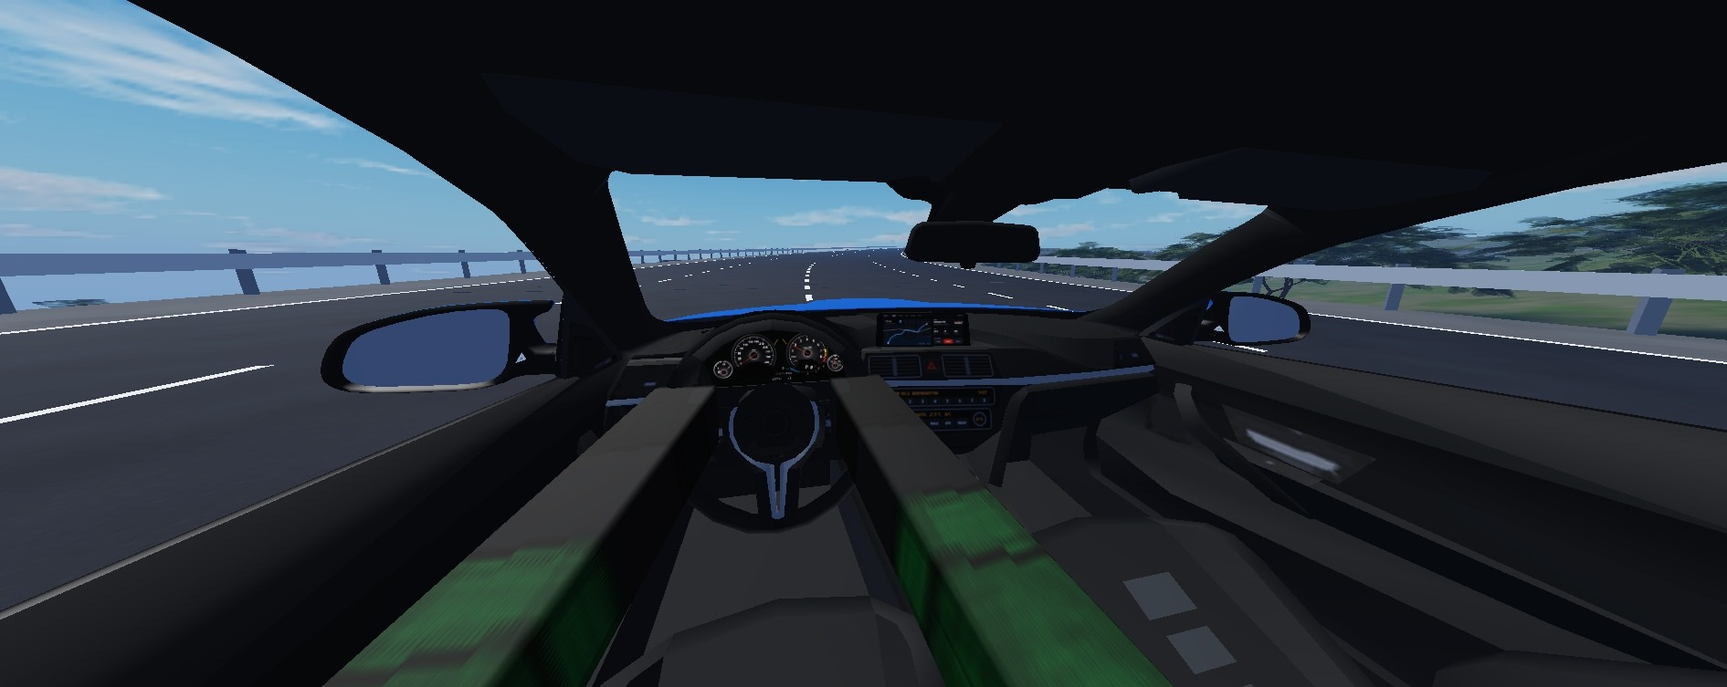
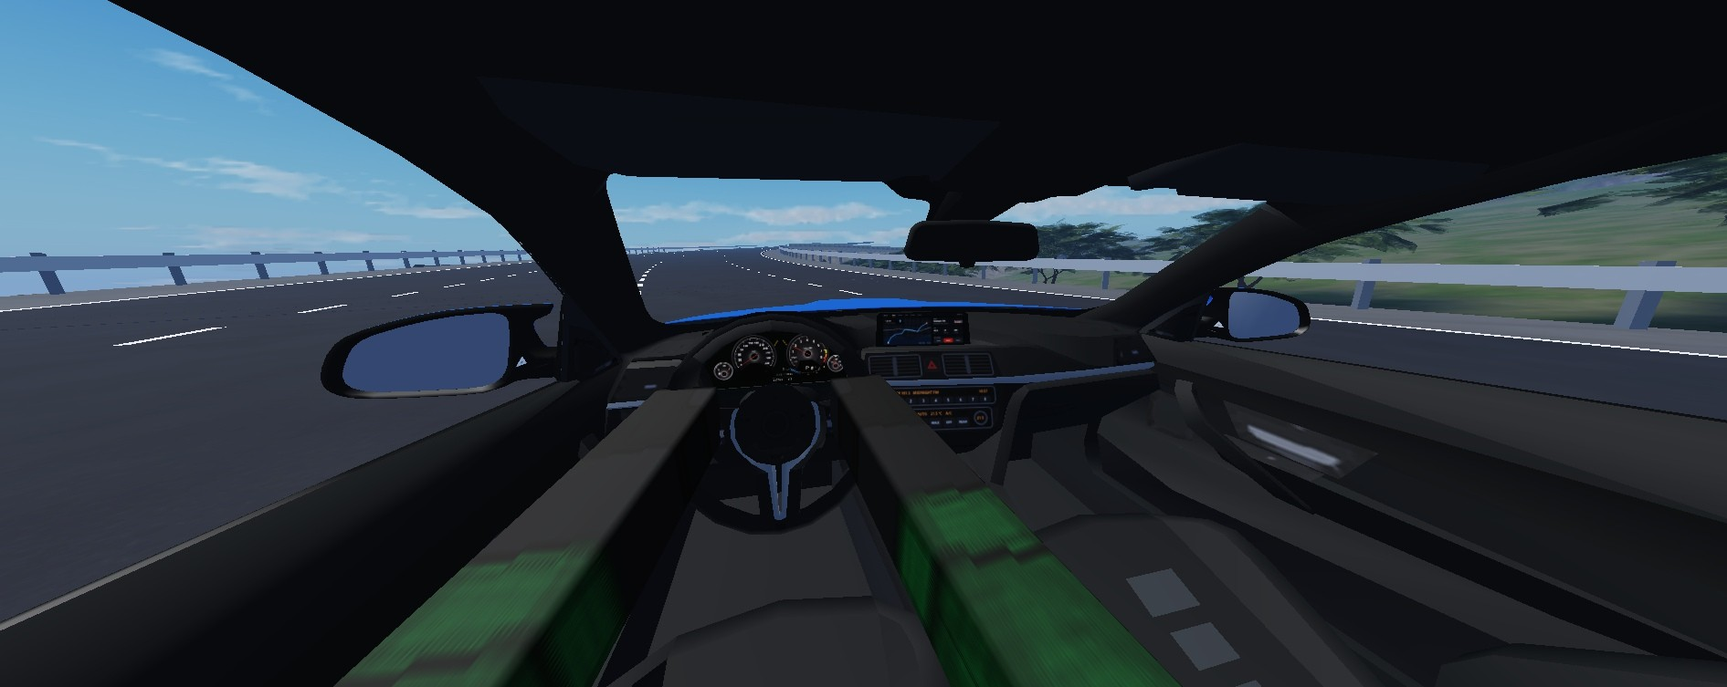
City Legends: car 5 of 7 done, the Bavarica Werkz F82 checked day and night
- Night half checked in Play: every lamp by eye and by the shells' numbers,
  cluster against the HUD while driving, wheels, Customs paint, the F80's
  cabin, the Workshop at phone size. Cabin glow picture put on.
- The F82 keeps the model's own steering wheel (owner's rule of 13 Nov).
- Notes, pictures (lamps at night, cluster while driving, phone size).

diff --git a/City Legends/City Legends.md b/City Legends/City Legends.md
@@ -13,13 +13,13 @@
 >
 > **Car 4 of 7 done: the Bavarica Werkz F90 (`bnw_m5_f90`; 2026-11-10 to 12, in Studio, not published).** It has its own model now, the 2022 one (it shared the 540i's body): logos out, black cabin with matt carbon, lit centre screen, the G20 Sport's live cluster as the owner said, working lamps, kit v2 wheels (Saetta Y5 gunmetal, gold calipers). Same id, name, price, class. Real numbers put in (627 hp, 1,825 kg, 0-60 2.9 s). **Left out:** working doors (4 doors, with the 4-door job). Section "Bavarica Werkz F90, the 2022 model". (F82: next block.)
 >
-> **Car 5 of 7 is in, checked by day only: the Bavarica Werkz F82 (`bnw_m4_f82`, car 3 on the prompt's list; 2026-11-12 to 13, in Studio, not published).** It now uses the 2018 model: logos out, its own dark cabin with a lit centre screen, the cluster redrawn from your photo made live (for you to judge: [[Bavarica Werkz F82 cluster - in the game next to the photo.jpg]]), working lamps, kit v2 wheels (Saetta Y5 gloss black, blue calipers). Same id, name, price, class. Real numbers put in (1,537 kg, 0-60 3.9 s, 7,600 rpm). The old model is kept (`ServerStorage.OldCarModels.bnw_m4_f82_old_2026-11-12`). **Said plainly:** this model's cabin is a low-detail one (one small flat picture): it is dark and clean, not rich. **Not checked yet:** night, the lamps, the cluster against the HUD while driving, a phone-size picture. On 13 Nov Studio's window was minimized during the test and a minimized Studio draws nothing (blank screenshots). **It needs one more short test (about 20 minutes) with Studio's window left open; it can sit behind other windows.** **Left out:** working doors (with the doors job). Section "Bavarica Werkz F82, the 2018 model". **In: 5 of 7** (E60, Sovereign Highlands, Horizon R35, F90, F82). **Left: 2** (E92, GT3 RS).
+> **Car 5 of 7 done: the Bavarica Werkz F82 (`bnw_m4_f82`, car 3 on the prompt's list; 2026-11-12 to 13, in Studio, not published).** It now uses the 2018 model: logos out, its own dark cabin with a lit centre screen and softly glowing labels at night, the cluster redrawn from your photo made live (for you to judge: [[Bavarica Werkz F82 cluster - in the game next to the photo.jpg]]), working lamps, kit v2 wheels (Saetta Y5 gloss black, blue calipers), the model's own steering wheel (your rule of 13 Nov). Same id, name, price, class. Real numbers put in (1,537 kg, 0-60 3.9 s, 7,600 rpm). **Said plainly:** this model's cabin is a low-detail one (one small flat picture): it is dark and clean, not rich. **Left out:** working doors (with the doors job). Section "Bavarica Werkz F82, the 2018 model". **Done: 5 of 7** (E60, Sovereign Highlands, Horizon R35, F90, F82). **Left: 2** (E92, GT3 RS).
 >
 > **OWNER, CHECK (2026-11-12): Studio's save script was on the test save from 10 Nov 15:45 to 12 Nov 21:35.** The F90 run was cut by the usage limit in the middle of a Play test, so the switch back never ran. It is back on the real save (`CityLegends_v1`; no `CityLegends_test` left in any script). **If you published in that time, publish again**, or the live game reads the test saves (players' real saves are not touched).
 
 > **OWNER, CHECK (2026-11-13): Studio's save script was on the test save from 12 Nov 23:22 to 13 Nov 08:14.** The F82 run (car 5 of 7) was cut by the usage limit on 12 Nov at 23:26, in the middle of a Play test, so the switch back never ran. **Fixed 13 Nov 08:14:** it is back on the real save (`CityLegends_v1`; no `CityLegends_test` left in any script). **If you published in that time, publish again**, or the live game reads the test saves (players' real saves are not touched).
 > - **GT3 RS:** the Blender part was cut too; started again on 13 Nov. **E92:** its Blender touch-up is not started.
-> - **State when the usage limit hit again (13 Nov, about 10:00):** GT3 RS Blender part finished (pack `Games/CityLegends/imports/new_cars/porsha_gt3.fbx`; write-up `%TEMP%\claude\7a3e934f062f0b7d\7b4bef64-38b0-4806-a059-d79fa7b1e6ca\scratchpad\prep_gt3rs\PREP.md`: cluster box, `CLUSTER_RECT`, `window_gt3rs.png`, data lines, wheels Centro6 gunmetal, yellow calipers). E92 Blender touch-up only just started, then stopped (scratch `...\scratchpad\prep_e92b\`, `PROGRESS.md` if it got that far; brief `...\scratchpad\brief_prep_e92b.md`). F82: its cabin's normal picture in Studio was an old one (old start button, controller and wheel key pads pressed in under the redrawn ones); swapped in Edit for the right one (`tools/logo_paint/bnw_m4_f82_cabin_n.png`, asset 93240865806279) on `Body_Cabin` and `SteeringWheel_t21`, not looked at in Play. The F82's night half still needs Studio's window left open (not minimized). Save script checked at 09:57: `CityLegends_v1`.
+> - **State when the usage limit hit again (13 Nov, about 10:00):** GT3 RS Blender part finished (pack `Games/CityLegends/imports/new_cars/porsha_gt3.fbx`; write-up `%TEMP%\claude\7a3e934f062f0b7d\7b4bef64-38b0-4806-a059-d79fa7b1e6ca\scratchpad\prep_gt3rs\PREP.md`: cluster box, `CLUSTER_RECT`, `window_gt3rs.png`, data lines, wheels Centro6 gunmetal, yellow calipers). E92 Blender touch-up only just started, then stopped (scratch `...\scratchpad\prep_e92b\`, `PROGRESS.md` if it got that far; brief `...\scratchpad\brief_prep_e92b.md`). F82: its cabin's normal picture in Studio was an old one (old start button, controller and wheel key pads pressed in under the redrawn ones); swapped in Edit for the right one (`tools/logo_paint/bnw_m4_f82_cabin_n.png`, asset 93240865806279) on `Body_Cabin` and `SteeringWheel_t21`. **Since then (13 Nov, about 11:10): the F82 is done.** The new picture was looked at in Play (reads clean) and the night half was checked with Studio's window left open (block "Car 5 of 7 done"). Save script checked at 09:57: `CityLegends_v1`.
 > - **Steering wheels (owner, 2026-11-13, permanent rule):** "whenever i import a new model for the old models, Never ever use the old model steering wheels, Only use the new import model steering wheels". Every new import keeps its own model's steering wheel (the rule is in `Games/CityLegends/CLAUDE.md`). The F82, GT3 RS and E92 follow it.
 > - **Audi (owner, 2026-11-13): "dont do the audi file I removed it".** The 4 models put in `Games/CityLegends/imports/new_cars/Audi/` on 12 Nov (R8 LMS Ultra, RS6 Avant, RS7 Sportback, RS6 Avant GT) are not to be imported, even if the folder still shows up from GitHub.
 
@@ -53,39 +53,44 @@ A Roblox night-city driving game. The code is in this vault, folder `Games/CityL
 ## Bavarica Werkz F82, the 2018 model (2026-11-12 to 13, `Prompts/Finish the 7 waiting imports (E60, E92, F82, F90, GT3 RS, Bentayga, GT-R).md`, car 3)
 **Licence:** CC-BY-NC-SA 4.0 (non-commercial), Ddiaz Design (Sketchfab), credited in `Config.Credits`. Its part names are two racing games' (`b:..._Max` / `_Low` for the body, cabin and lamps; `BMW_M4Coupe_2014_Wheel2A...` for the wheels): most likely ripped. The owner decides.
 
-**Not finished: checked by day only.** What is still open is under "Not checked yet".
-
 - **What changed:** `bnw_m4_f82` uses the 2018 model now (the standard car: 19-inch wheels, carbon roof, LED headlamps with two six-sided rings). Same id, name, price ($42,500, used), class (Coupe, A; the class number went 604 -> 612), no level needed. Real numbers put in: 1,537 kg (was 1,550), 0-60 3.9 s (was 4.1, which is its 0-100 km/h), rev limit 7,600 (was 7,300). 425 hp, 550 Nm, 174 mph, rear-wheel drive and the 7-speed stay. Paint: the game's blue, so owners keep the car they know (the model's own colour is yellow).
 - **No logos:** done in Blender (2026-11-12).
   - Dropped: the roundels on the bonnet and boot with their plinths, the letters on the boot, in the kidney and on both wing gills, the maker's words inside the lamps, the calipers (the kit brings its own), the wheel caps' roundels.
   - Painted out of the pictures: the tyre lettering, the engine cover's words, and in the cabin the hub roundel, the stripe marks on the wheel and the seat plaques, the dials' marks.
   - Gone with the badge sheet: the parking-sensor dots, the camera dots and the lock disc (they were stickers).
   - None seen in the Play pictures.
-- **Cluster (owner, 2026-11-10: rebuilt 1:1 from the owner's photo):** the redraw is live as `LiveF82`, on the model's own cluster face (355 x 134 mm; no window needed: the hood's walls hide the corners). **The drawing was not changed.** Only its box was set to the model's measured face (`box = (-38, 7, 659, 271)`, `bg_scale 1.93`). Live: the speed needle (km/h, as printed), the digital speed in the player's unit, revs, fuel, gear, date, mileage, trip. **Checked parked:** 0 on the cluster and on the HUD; the cluster shows P where the HUD shows N (it is drawn that way: P, R, and D with the gear number). **Not checked: while driving.** For the owner to judge: [[Bavarica Werkz F82 cluster - in the game next to the photo.jpg]]. **To put the old drawn cluster back:** `CLUSTER_STYLE` `bnw_m4_f82 = "BMWF80"` in `CarSkin.lua` (it sits on the same face).
+- **Cluster (owner, 2026-11-10: rebuilt 1:1 from the owner's photo):** the redraw is live as `LiveF82`, on the model's own cluster face (355 x 134 mm; no window needed: the hood's walls hide the corners). **The drawing was not changed** and no placement fix was needed. Only its box was set to the model's measured face (`box = (-38, 7, 659, 271)`, `bg_scale 1.93`). Live: the speed needle (km/h, as printed), the digital speed in the player's unit, revs, fuel, gear, date, mileage, trip.
+  - **Checked parked:** 0 on the cluster and on the HUD; the cluster shows P where the HUD shows N (it is drawn that way: P, R, and D with the gear number).
+  - **Checked while driving:** 60 km/h on the needle, on the cluster's number and on the HUD; gear 2 on both ("2 D" on the cluster); the rev needle at 4,300 with the HUD's bar a bit over half.
+  - For the owner to judge: [[Bavarica Werkz F82 cluster - in the game next to the photo.jpg]]. **To put the old drawn cluster back:** `CLUSTER_STYLE` `bnw_m4_f82 = "BMWF80"` in `CarSkin.lua` (it sits on the same face).
 - **Interior, said plainly: this model's cabin is a low-detail one.** Dash, seats, doors and steering wheel are one part with one small flat picture. So there is no leather grain, no stitching, no Alcantara, and the seats are simple shapes. What was done with it:
   - The picture was rebuilt 4 times larger, with no white seams, and with our own radio and climate panel, vents, steering-wheel keys, start button and console controller (our own labels; Blender, 2026-11-12).
   - The centre screen is a sharp lit page of ours (map, radio, trip, drive mode; a still picture).
-  - The cabin's carbon strip is matt. The car has its own cabin now (it borrowed the E92's before; the F80 still does).
-  - Seen from the driver's seat and the passenger side by day: dark and clean, nothing white.
-- **Steering wheel:** the model's own (angular rim, plain hub, the new key pads); the hands hold it at 9 and 3. The game's generated wheel (`STEER_MODEL` `"BMWM"`, what this car had before) was **not compared by eye**: the Play for it gave no picture. To try it: put `bnw_m4_f82 = "BMWM"` back in `CarSkin.STEER_MODEL`.
-- **Lamps (`CarLamps.CARS`):** shells cut from the model's own lamps: both rings and their light bars, the eyebrow strip and the mirror repeaters (indicators), the red lenses, the reverse band, the rear indicator band. By day the rings glow with the engine on (read from the shells). **Not checked yet:** low and high beam, indicators, brake, reverse, the look at night.
-- **Wheels:** kit v2, Saetta Y5 gloss black with a polished lip, blue calipers, drilled discs, 255/35 R19 front, 275/35 R19 rear, all 40 kit parts at full detail (`RenderFidelity` Precise). The real 19-inch wheel is black with bright spoke faces: the kit has no two-tone finish, the polished lip stands in. Seen standing by day: the stance is right, the arches are filled. The model's own wheels: `ServerStorage.OldCarModels.bnw_m4_f82_wheels2`.
-- **Look:** carbon roof and diffuser, black kidney slats in chrome frames, dark see-through glass, clear lamps. Customs paint, by the numbers (painted red in Play): only the paint part changed, the carbon and the lenses did not. Not looked at by eye.
-- **Fixed after the first Play:**
+  - At night the radio and climate lines, the key labels, START / STOP and the hazard triangle glow softly (a glow picture on the cabin, put on 13 Nov after it looked right at night).
+  - The cabin's carbon strip is matt. The car has its own cabin now (it borrowed the E92's before; the F80 still does: checked in Play, the F80 has its cabin).
+  - Seen from the driver's seat and the passenger side, day and night: dark and clean, nothing white, nothing see-through. The start button, the console controller and the wheel's key pads read clean close up (the right bump picture is on since 13 Nov). The softest spots: the gear selector's surround and the passenger door pull are a blurry satin grey (the model's small picture, enlarged).
+- **Steering wheel: the model's own, by the owner's rule of 2026-11-13** (a new import never gets the old generated wheel). Angular rim, plain hub, the new key pads. It sits on the column (it turns about its own middle: 66 degrees at full lock, the hub stays put) and the hands hold it and follow it.
+- **Lamps (`CarLamps.CARS`), all checked at night by eye and by the shells' numbers:**
+  - The two rings and their light bars glow by day with the engine on; low beam at night; high beam (the whole cover brighter, more light on the road); off.
+  - Front indicators: the eyebrow strip over the headlamp and the mirror repeater, each on its own side. Rear indicators: the band under the tail lamp, each on its own side.
+  - Tail lamps red; brighter when braking (shell 0.30 -> 0.09); the white reverse bands only when it rolls back in R.
+  - Picture: [[Bavarica Werkz F82 - lamps at night.jpg]] (the car was painted red for that test).
+- **Wheels:** kit v2, Saetta Y5 gloss black with a polished lip, blue calipers, drilled discs, 255/35 R19 front, 275/35 R19 rear, all 40 kit parts at full detail (`RenderFidelity` Precise). The real 19-inch wheel is black with bright spoke faces: the kit has no two-tone finish, the polished lip stands in. Stance right, arches filled; they spin (the blur comes in with speed) and the fronts steer (30 degrees at full lock). The model's own wheels: `ServerStorage.OldCarModels.bnw_m4_f82_wheels2`.
+- **Look:** carbon roof and diffuser, black kidney slats in chrome frames, dark see-through glass, clear lamps. Customs paint covers the body panels and nothing else (painted red in Play: roof and diffuser stay carbon, by eye and by the numbers).
+- **Fixed after the first Play (seen again in a fresh Play):**
   - The exhaust tips' insides were cream white (a tan metal mirrors the sky): now dark.
   - The gear selector's surround and the silver trim read pale from the passenger side: the cabin and the steering wheel are toned darker (`SurfaceAppearance.Color` 168, 168, 172).
-  - Both were tried live in Play first and looked right, then set on the model. Not looked at again in a new Play.
 - **The two white specks under the rear diffuser** (in a Blender check picture): nothing is there. Every part's points were read in Studio: no piece hangs under the floor behind the rear axle or behind the bumper, and none shows in Play from behind. They were render noise.
 - **Backups:** `ServerStorage.OldCarModels.bnw_m4_f82_old_2026-11-12` and, on the PC (not in git), `Games/CityLegends/imports/backups/bnw_m4_f82_2026-11-12/bnw_m4_f82_old.rbxm`. **To go back:** put that model back into `ReplicatedStorage.CarModels` as `bnw_m4_f82` and undo this car's lines in `src` (`CarFinish`, `CarLamps`, `CarSkin`, `DashGauges`, `Windscreens`).
 - **Left out (sacrifices):**
   - **Doors:** not in this run; later, with the doors job (this model has separate loose door pieces). `Config.Doors` has no line for this car.
   - **No new cabin materials** (see Interior): that needs new modelling and new pictures in Blender.
-  - **The cabin's glow at night:** a glow picture for the labels and displays is uploaded (id 85437599568412) but not put on: the night look wasn't seen.
   - **Lower grilles:** flat panels with a hex pattern, not real cells. **The third brake light** stays dark, as on the other cars. **Two-tone wheels:** not in the kit.
-- **Checked in Play (PC size, test save, by day):** spawns; outside front and rear; a wheel; the driver's seat; the passenger side; the cluster parked against the HUD; Customs paint by the numbers. No script errors from the game in the Output. Lune physics 203 cars 0 fails, carlevels / goals / progression / market OK, `luau-lsp` clean (only the old Traffic warning).
-- **Not checked yet (one more short Play, with Studio's window open):** night outside and in the cabin; every lamp; the cluster against the HUD while driving; the wheels turning and steering; the steering wheel choice; Customs paint by eye; the F80 still having its borrowed cabin; where a windscreen crack sits (its line in `Windscreens.lua` comes from the Blender glass); a phone-size picture. There is no "lamps at night" picture yet. Also not tested: a second player, FPS before / after.
-- **Why it stopped there:** the first run was cut by the usage limit on 12 Nov (the OWNER, CHECK block at the top). On 13 Nov Studio's window was minimized during the Play tests, and a minimized Studio draws nothing: the screenshots came back blank. It was un-minimized once (behind the other windows, without taking the focus) for the day pictures. When it was minimized again, the rest was left. Each Play ended with the save script back on `CityLegends_v1`.
-- Pictures: [[Bavarica Werkz F82 - in the game.jpg]], [[Bavarica Werkz F82 - rear.jpg]], [[Bavarica Werkz F82 - driver's seat.jpg]], [[Bavarica Werkz F82 - passenger side cabin.jpg]], [[Bavarica Werkz F82 - wheel.jpg]], [[Bavarica Werkz F82 cluster - in the game next to the photo.jpg]], [[Bavarica Werkz F82 - before and after.jpg]].
+- **Checked in Play (test save, 13 Nov):** spawns and drives; day and night outside, front and rear; the driver's seat and the passenger side, day and night; through the glass; the cluster against the HUD parked and driving; every lamp; the wheels; Customs paint; the F80's cabin; the Workshop at phone size ([[Bavarica Werkz F82 - workshop, phone size.jpg]]). No script errors from the game in the Output. Lune physics 203 cars 0 fails, carlevels / goals / progression / market OK, `luau-lsp` clean (only the old Traffic warning).
+- **Not seen:** a windscreen crack on this car. Its line in `Windscreens.lua` was measured again from the glass in Studio and is right (same numbers), but the crack picture does not draw in Studio Play. Also not tested: a real phone, a second player, FPS before / after.
+- **Seen in the Output, not this car's:** two pictures (ids 76075027895771, 71012909610292) don't load in Studio Play ("No asset content representation"); no car model of this job uses them. Not traced.
+- **How the run went:** cut by the usage limit on 12 Nov (the OWNER, CHECK block at the top). On 13 Nov morning Studio's window got minimized during the Play tests (a minimized Studio draws nothing), so only the day half was done; the night half was done later that day with the window left open. Each Play ended with the save script back on `CityLegends_v1`.
+- Pictures: [[Bavarica Werkz F82 - in the game.jpg]], [[Bavarica Werkz F82 - rear.jpg]], [[Bavarica Werkz F82 - driver's seat.jpg]], [[Bavarica Werkz F82 - passenger side cabin.jpg]], [[Bavarica Werkz F82 - wheel.jpg]], [[Bavarica Werkz F82 - lamps at night.jpg]], [[Bavarica Werkz F82 cluster - in the game next to the photo.jpg]], [[Bavarica Werkz F82 - before and after.jpg]], [[Bavarica Werkz F82 - workshop, phone size.jpg]].
 
 ## Bavarica Werkz F90, the 2022 model (2026-11-10 to 12, `Prompts/Finish the 7 waiting imports (E60, E92, F82, F90, GT3 RS, Bentayga, GT-R).md`, car 4)
 **Licence:** CC-BY-NC-SA 4.0 (non-commercial), Ddiaz Design (Sketchfab), credited in `Config.Credits`. Its material names (`BMW_M5CSRewardRecycled_2022...`) are a racing game's: most likely ripped. The owner decides.

diff --git a/Games/CityLegends/CLAUDE.md b/Games/CityLegends/CLAUDE.md
@@ -166,7 +166,7 @@ Traffic uses the "lite" runtime meshes first. The owner thinks the procedural ca
 - **Imports of 2026-11-10, car 2 (`bentlee_bentayga`, the 2018 model, a replacement):** a model with its own tow bar keeps it: name the piece `Body_TowHitch`, `TrailerClient` then draws no ball and bar of ours, and `Config.Towing.HitchReach.<id>` moves the hitch point onto the model's ball. A tall tailgate glass lets the brake glow light the boot red: move the glow back per car in `CarSkin` (the `att.Position` line with `bentz_s680`, `audy_r8_lw`). `ContentProvider:PreloadAsync` in Edit reported `Failure` for fresh uploads that then showed fine on an ImageLabel: check by looking, not by that call. **After a crash or power cut:** Studio (Team Create) keeps the Edit changes, so the PlayerData store can be left on `CityLegends_test` and `HttpEnabled` on: check both first (`script_grep CityLegends_test`). The Studio id changes when Studio is reopened: call `list_roblox_studios` again.
 - **Imports of 2026-11-10, car 3 (`nisun_gtr`, the 2013 model, a replacement):** a cabin that is one part with one flat-colour picture can't be fixed with `SurfaceAppearance.Color`: tone the picture itself (`tools/logo_paint/nisun_gtr_cabin_tone.py`: silver 150 read white from the seat, 72 reads satin). A plain grey metal trim (78 grey, metal 0.5) reads pale silver in Play: `SurfaceAppearance.Color` (120, 122, 126) on `Body_Trim2` in `CarModels`. `cluster_live.py lua` writes a block for every registered builder, with empty picture ids if they aren't in `cluster_ids.json` yet (`gtrte` was uploaded too for that reason). Play test traps: the driving camera also resets `FieldOfView` (move the camera closer and crop); a car-relative test camera needs the same three hooks as the fixed one (RenderStepped, Heartbeat, the camera's CFrame signal); a test script that errors after setting `TestThrottle` leaves the car driving (set it back first thing in the next call); the server rewrites `Dmg` after every new knock, so clear it again right before pictures; a white car looks lit at night and hides the lamps: paint it dark through the car's `Custom` attribute for the lamp picture.
 - **Imports of 2026-11-10 to 12, car 4 (`bnw_m5_f90`, the 2022 model: a car that used another car's body gets its own):** take `Model = "..."` off its `Cars.lua` line; `CarSwap`'s "old" backup is then a copy of the shared body. `LiveG20` (any live cluster) runs on another car with just a `CLUSTER_STYLE` and a `CLUSTER_RECT` line. Traps: **a rip whose corner (vertex) colours carry alpha 0**: Roblox uses that alpha once a part is see-through, so the windows and red lenses were invisible in the game: set every colour layer's alpha to 1 before `pack_cars.py` (`tools/logo_paint/bnw_m5_f90_alpha_fix.py`; with `only` it makes the small pack), or swap just those parts with a small pack (the parts + `Body_Base` as the reference; copy looks, attributes and children from the old parts). Glossy carbon inside the cabin mirrors the sky (a white band on the dash): split the loose carbon pieces inside the cabin box into `Body_CabinCarbon` (`tools/logo_paint/bnw_m5_f90_carbon_split.py`; CarFinish's carbon tint skips names with "cabin") and give it a rougher roughness map. A tan picture with metal 0.85 mirrors the sky cream white: `SurfaceAppearance.Color` (176, 128, 70) reads gold bronze. `tools/pi_table.luau` is stale since the Workshop (it needs `PartData`, and `Config.CarParts.Keys` is gone): for one car's class, a short Lune script with its loader plus `PartData`, calling `CarStats.classOf(id)`. **A run cut by the usage limit in the middle of a Play test leaves the PlayerData store on `CityLegends_test`** (two days this time): first thing in the next session, check the store (`script_grep CityLegends_test`) and put it back. Where a cut run stopped: the tail of its transcript (`~/.claude/projects/C--Users-USER-ProjectOne/<session>/subagents/agent-*.jsonl`; its screenshots are in `<session>/tool-results/` and can be used for the pictures). An `execute_luau` right after Stop can answer "Target is not reachable" and still have run: read the state again before repeating it.
-- **Imports of 2026-11-12 to 13, car 5 (`bnw_m4_f82`, the 2018 model, a replacement; day checks only):** a redrawn cluster goes live from `tools/lambo/pending_clusters/` by pasting its builder into `cluster_imports.py` with the prep's measured `box` / `bg_scale` (MERGE.md, steps 1 to 3). A builder with `sprites["P"] = sprites["N"]` shows P where the HUD shows N: that is the drawing, not a fault. Traps: **starting Play brings Studio's window up; when the owner is at the PC it gets minimized within a minute, and a minimized Studio draws nothing** (`screen_capture` comes back plain dark, 1b1c20) while client `execute_luau` calls answer "Target is not reachable" (they still run). Check with PowerShell (`IsIconic` on `RobloxStudioBeta`'s `MainWindowHandle`) before judging a blank picture. Un-minimizing it once without focus and behind the other windows gave the pictures; the next Play start got it minimized again: take that as "not now", finish the offline work, and ask for a time when Studio can stay open (don't restore it again). On a PC short of memory (under 1 GB free with Blender running) a client call that waits more than about 2 s is cut the same way: let the test kit spawn the car in a `task.spawn` and poll a flag, and keep every call short. Exhaust tip insides (a tan picture, metal 0.5) mirror the sky cream white: `SurfaceAppearance.Color` (62, 58, 54). A one-picture cabin whose silver and selector surround read pale: here `SurfaceAppearance.Color` (168, 168, 172) on `Body_Cabin` and the steering wheel was enough (the lit screen is its own part); try a value live on the spawned car's parts in Play, then set it in `CarModels`. White specks in a Blender check picture: before hunting, read every part's points in Edit with `EditableMesh` (lowest and furthest points): nothing there means render noise. To look at the generated steering wheel on a new model for one Play, add its `STEER_MODEL` line in Studio's CarSkin only, and take it out with the store switch-back (check the script's length).
+- **Imports of 2026-11-12 to 13, car 5 (`bnw_m4_f82`, the 2018 model, a replacement):** a redrawn cluster goes live from `tools/lambo/pending_clusters/` by pasting its builder into `cluster_imports.py` with the prep's measured `box` / `bg_scale` (MERGE.md, steps 1 to 3). A builder with `sprites["P"] = sprites["N"]` shows P where the HUD shows N: that is the drawing, not a fault. Traps: **starting Play brings Studio's window up; when the owner is at the PC it gets minimized within a minute, and a minimized Studio draws nothing** (`screen_capture` comes back plain dark, 1b1c20) while client `execute_luau` calls answer "Target is not reachable" (they still run). Check with PowerShell (`IsIconic` on `RobloxStudioBeta`'s `MainWindowHandle`) before judging a dark picture, and don't restore the window: stop Play, put the store back and ask for a time when it can stay open (the owner then clicks another window over it instead of minimizing). **An MCP call that runs longer than about 5 s is cut** ("Target is not reachable", it still runs; worse when memory is short): let the test kit spawn the car in a `task.spawn` and poll a flag, keep waits under 4 s (a `user_keyboard_input` wait too), and no heavy scan in the first Edit call after Stop (make that call the store switch-back alone, then read the store again). After the kit's spawn the start menu may or may not be up: read `MainMenu.Enabled` and press Return only if it is. Exhaust tip insides (a tan picture, metal 0.5) mirror the sky cream white: `SurfaceAppearance.Color` (62, 58, 54). A one-picture cabin whose silver and selector surround read pale: here `SurfaceAppearance.Color` (168, 168, 172) on `Body_Cabin` and the steering wheel was enough (the lit screen is its own part); try a value live on the spawned car's parts in Play, then set it in `CarModels`. A cabin glow at night: `EmissiveMaskContent` on the cabin's SurfaceAppearance (set in Edit; strength 1 looked right, and by day it hardly shows); `EmissiveStrength` can be changed live in Play to try values, the mask itself can't. The prep's `done\*_pbr` normal picture can be older than the one in `tools/logo_paint` (old buttons pressed in under redrawn ones): upload the `tools/logo_paint` one. White specks in a Blender check picture: before hunting, read every part's points in Edit with `EditableMesh` (lowest and furthest points): nothing there means render noise. The same read gives a car's `Windscreens.lua` line (area-weighted middle and normal of the glass faces that look forward and up, ahead of the wheels' middle; `tools/damage/windscreens.luau` is only a header); the crack picture itself doesn't draw in Studio Play. A raycast against a glass MeshPart hits its collision shape, not its mesh: don't measure with it. The driver's arms in Play are `Workspace.Camera.Player` (Driving redraws them each frame: put the camera in front of them instead of hiding them). A blinking lamp in a screenshot: take two or three captures, one lands on the lit half. Lamp modes from a test: key L steps auto -> low -> high -> off (leave over 1 s between presses or it reads a double tap); Z / C / X the indicators; the brake held at a standstill selects R.
 - **Small design changes (2026-11-08, `tools/details.py`):** a job (`tools/details/<car id>.json`) changes loose pieces of a car's own meshes in Blender: `clip` (a straight cut; `frac` cuts each piece, or each `group` of pieces, at a share of its length), `shape` (cross-section; failed on deep exhaust tubes, don't use there), `respace`, `fin`, `scale`, `move`, `drop`; `min` / `max` pick pieces by their longest side; an op works on every part of that name (many-part Bugattis). Source = the car's finished .blend (or a pack .fbx + `root`; the base Chiron's pack is only in git history, commit 5a8870f5, restored to `imports/details/src/`); parts changed since by `retext.py` come in through `overlay`. `view` renders the shots with the picked pieces in magenta, `list` / `probe` / `info` / `dump_tiles` help find them; `build` renders before / after (`details_sheet.py pairs`) and writes `imports/details/<id>.fbx` (read back and written again: Open Cloud refused a first export). Grille meshes: `tools/details_tiles.py` redraws a small repeating grille picture (auto: hex cells -> diamonds on an exact lattice, small holes -> hexagons; skips plain pictures; check the result, zigzag / slot / light-hole pictures come out wrong). Studio: `ServerStorage.ClaudeTools.DetailsApply` (`run`, `tiles`, `undo`; old parts in `ServerStorage.DetailsOld`), code from `tools/details_apply_code.py <ids>` (`--ids` records `upload_image` results in `tools/details/tile_ids.json`). Traps: faces put back into a part must get the part's world matrix (pack parts sit under a scaled, turned group); a part with only a TextureID takes the colour picture there.
 - **Scissor doors (2026-11-08, `Prompts/Scissor doors on the SVJ and SVJ 63 (cut properly).md`; the LP700 and SV added the same day):** `tools/doors.py` (Blender) cuts each door out of the car's own meshes; job `tools/doors/<car id>.json`: `box` / `xmin` / `glass` / `keep` / `take` / `keep_box` (pieces), `cut_faces` (faces of pieces joined to the body), `repaint`, `hinge` + `axis` + `open`, `cover` (black backs for the jamb), `cull` (renders show only the front of each face, as Roblox draws them); modes `view`, `hits`, `search` (hinge grid), `build` -> `imports/doors/<id>.fbx` + report -> Open Cloud -> `ServerStorage.DoorsHolding.<id>` (one folder per car: the cars share part names) -> `ServerStorage.ClaudeTools.DoorsApply.run(id, report)` makes `CarModels.<id>@doors` (the old model is never changed). Game: `Config.Doors` (switch per car: off = old model), `Config.DoorFeel`; `server/Doors.lua` (car attributes DoorOpenL / R, the CarDoors remote, they close as the car drives off, `OnFoot` opens one for getting in and out), `client/CarDoors.lua` (CarSkin puts each door on a Motor6D SkinDoorL / R at its Hinge). Keys: Shift + F, the phone's DOORS button. Traps: Blender renders both sides of a face, Roblox only the front: the jamb behind a door is often one-sided and see-through once the door is up (owner saw it on the LP700, then the SV's front jamb): check with `cull` and mode `holes` (rays from 72 spots outside through the opening; a ray that crosses a back face and then leaves the car is a hole; "-" cells are under the car, not holes), fix with `cover` (`box` [0.3, -1.35, 0, 1.2, 0.62, 1.05] now, `skip` Body_Rim, `out_max` 1.1 = far-side skin too, `doors: true` = backs inside each door; a face gets no back when every spot of it has a face facing the other way within 2 cm behind it, which would flicker; covers split at 15,000 triangles: Body_JambCover, Body_JambCover2). Mode `piece` (`piece_at`) gives a loose piece's middle for `repaint` (the SV's white hinge piece: Body_Cabin_p1 into Body_Carbon). To find what a spot in a render is: `debug_rays` in mode `holes`. A part the doors take whole (a part that is only the mirrors) is dropped (report `after` = null). The client caches a car's model: renaming `@doors` in Play changes nothing until a new session.
 - **Wheel kit v2 (2026-11-08):** `tools/wheels/wheel_textures.py` (tyre / disc / lip pictures) + `tools/wheels/wheel_library_v2.py` (Blender: 8 designs x front / deep-rear faces, nuts, caps, blur discs, lip, barrel, discs, calipers A / B, shield, tyres 66 / 71 / 75; AO bakes; every rim-frame mesh carries hidden slivers so all share one box; a bake is skipped when its PNG exists) -> one Open Cloud model -> `ServerStorage.RimKit2` (`RimSwap2.buildKit`) -> `ClaudeTools.RimSwap2.apply(id, ClaudeTools.WheelPlan.cfg(id, CALIPER), Kit2Ids)` (also the `@doors` twin; marks the model `WheelKit = 2`). In Studio the importer turns the meshes: outer face -X, up +Y, CaliperA at +Z. Kit parts carry `WheelRole` (Face, Nuts, Cap, Blur, Lip, Barrel, Disc, Caliper, Shield, Tyre): CarSkin hides Blur at start, Driving fades it in by wheel speed (and on other players' cars in `updateOthers`), DamageFx puts rash on the Lip, Customs tints Face / Cap / Blur through `SurfaceAppearance.Color`. `SurfaceAppearance.EmissiveStrength` and `.Color` can be set by a LocalScript (brake glow, rim colour). `CarBuilder` gives `WheelKit = 2` models each axle's own radius; CarSkin stands them on their tyres' ground.

diff --git a/Active-Projects.md b/Active-Projects.md
@@ -100,7 +100,7 @@ Night-city driving game: earn money by driving and cutting up traffic, buy cars,
 - **10 Nov (Claude Code, in Studio, not published):** Finish the 7 imports, car 3 of 7: the Horizon R35 is now the 2013 model (logos out, the model's own cluster live, lit centre screen, working lamps, kit v2 wheels with gold calipers; same id, price, class; real 545 hp / 1,732 kg). NC model. Doors left for the doors job. Left: E92, F82, F90, GT3 RS. See [[City Legends/City Legends]].
 - **10 Nov (Claude Code, in Studio, not published):** exhaust sounds by real engine for the 6 imports that had none: E60 V10, E92 V8, F82, F90, Sovereign Highlands (an RS7's set, same V8), Horizon R35. Checked by numbers, not heard by ear: owner to listen. To undo: `Config.SupercarExhaust.Off.<car id> = true`. See [[City Legends/City Legends]].
 - **10-12 Nov (Claude Code, in Studio, not published):** Finish the 7 imports, car 4 of 7: the Bavarica Werkz F90 has its own model now, the 2022 one (logos out, the G20 Sport's live cluster as the owner said, working lamps, kit v2 wheels with gold calipers; same id, price, class; real 627 hp / 1,825 kg). NC model. Doors left for the 4-door job. The run was cut by the usage limit in the middle of a Play test: Studio's save script was on the test save from 10 Nov 15:45 to 12 Nov 21:35 (back on the real one; **publish again if you published in between**). Left: E92, F82, GT3 RS (their 3 redrawn clusters wait for the owner's OK). See [[City Legends/City Legends]].
-- **12-13 Nov (Claude Code, in Studio, not published):** Finish the 7 imports, car 5 of 7: the Bavarica Werkz F82 is now the 2018 model (logos out, the cluster redrawn from the owner's photo is live for the owner to judge, working lamps, kit v2 wheels with blue calipers; same id, price, class; real 1,537 kg / 0-60 3.9 s). NC model. Its cabin is a low-detail one (one flat picture): dark and clean, not rich. **Checked by day only:** night, the lamps and the cluster while driving need one more short Play with Studio's window left open (it was minimized, so the screenshots were blank). Doors left for the doors job. Left: E92, GT3 RS. See [[City Legends/City Legends]].
+- **12-13 Nov (Claude Code, in Studio, not published):** Finish the 7 imports, car 5 of 7 done: the Bavarica Werkz F82 is now the 2018 model (logos out, the cluster redrawn from the owner's photo is live for the owner to judge, working lamps, kit v2 wheels with blue calipers, the model's own steering wheel; same id, price, class; real 1,537 kg / 0-60 3.9 s). NC model. Its cabin is a low-detail one (one flat picture): dark and clean, not rich. Checked in Play day and night. Doors left for the doors job. Left: E92, GT3 RS. See [[City Legends/City Legends]].
 - **Code:** this vault, folder `Games/CityLegends`.
 - **Now (29 Oct):** play-test done in Studio. New: passenger seats (Y beside a friend's car), M = automatic / sequential, varied traffic speeds, chauffeur lane splitting, island bridges 2 lanes each way. Open: a better Suzaki Swift model, Camri badge, a few blocked car meshes. Next: save, publish, check the funnels in Creator Hub, then the AFK Zone.
 - **4 Nov (Claude Code, in Studio):** Riviera Highway + Summit Pass, then the owner's marked map: Corniche Highway (20,846 studs, viaducts), Serpent Road, 6 links, no dead-end roads left. Curved road meshes: option 1 (Blender + one Import 3D by the owner). Main menu restyled, building materials in. All 11 venues can be driven onto (2 house lots removed under The Crown). Grand Hairpin moved to the owner's marked bend, with red pavement, kerbs and road lines (no Import 3D needed); Grand Hairpin Hotel with marked bays; Legends Rewards remodelled (twin towers, garden, stained-glass dome); players start in the casino garden. Parking stays empty for players' own cars. See [[City Legends/City Legends]].
